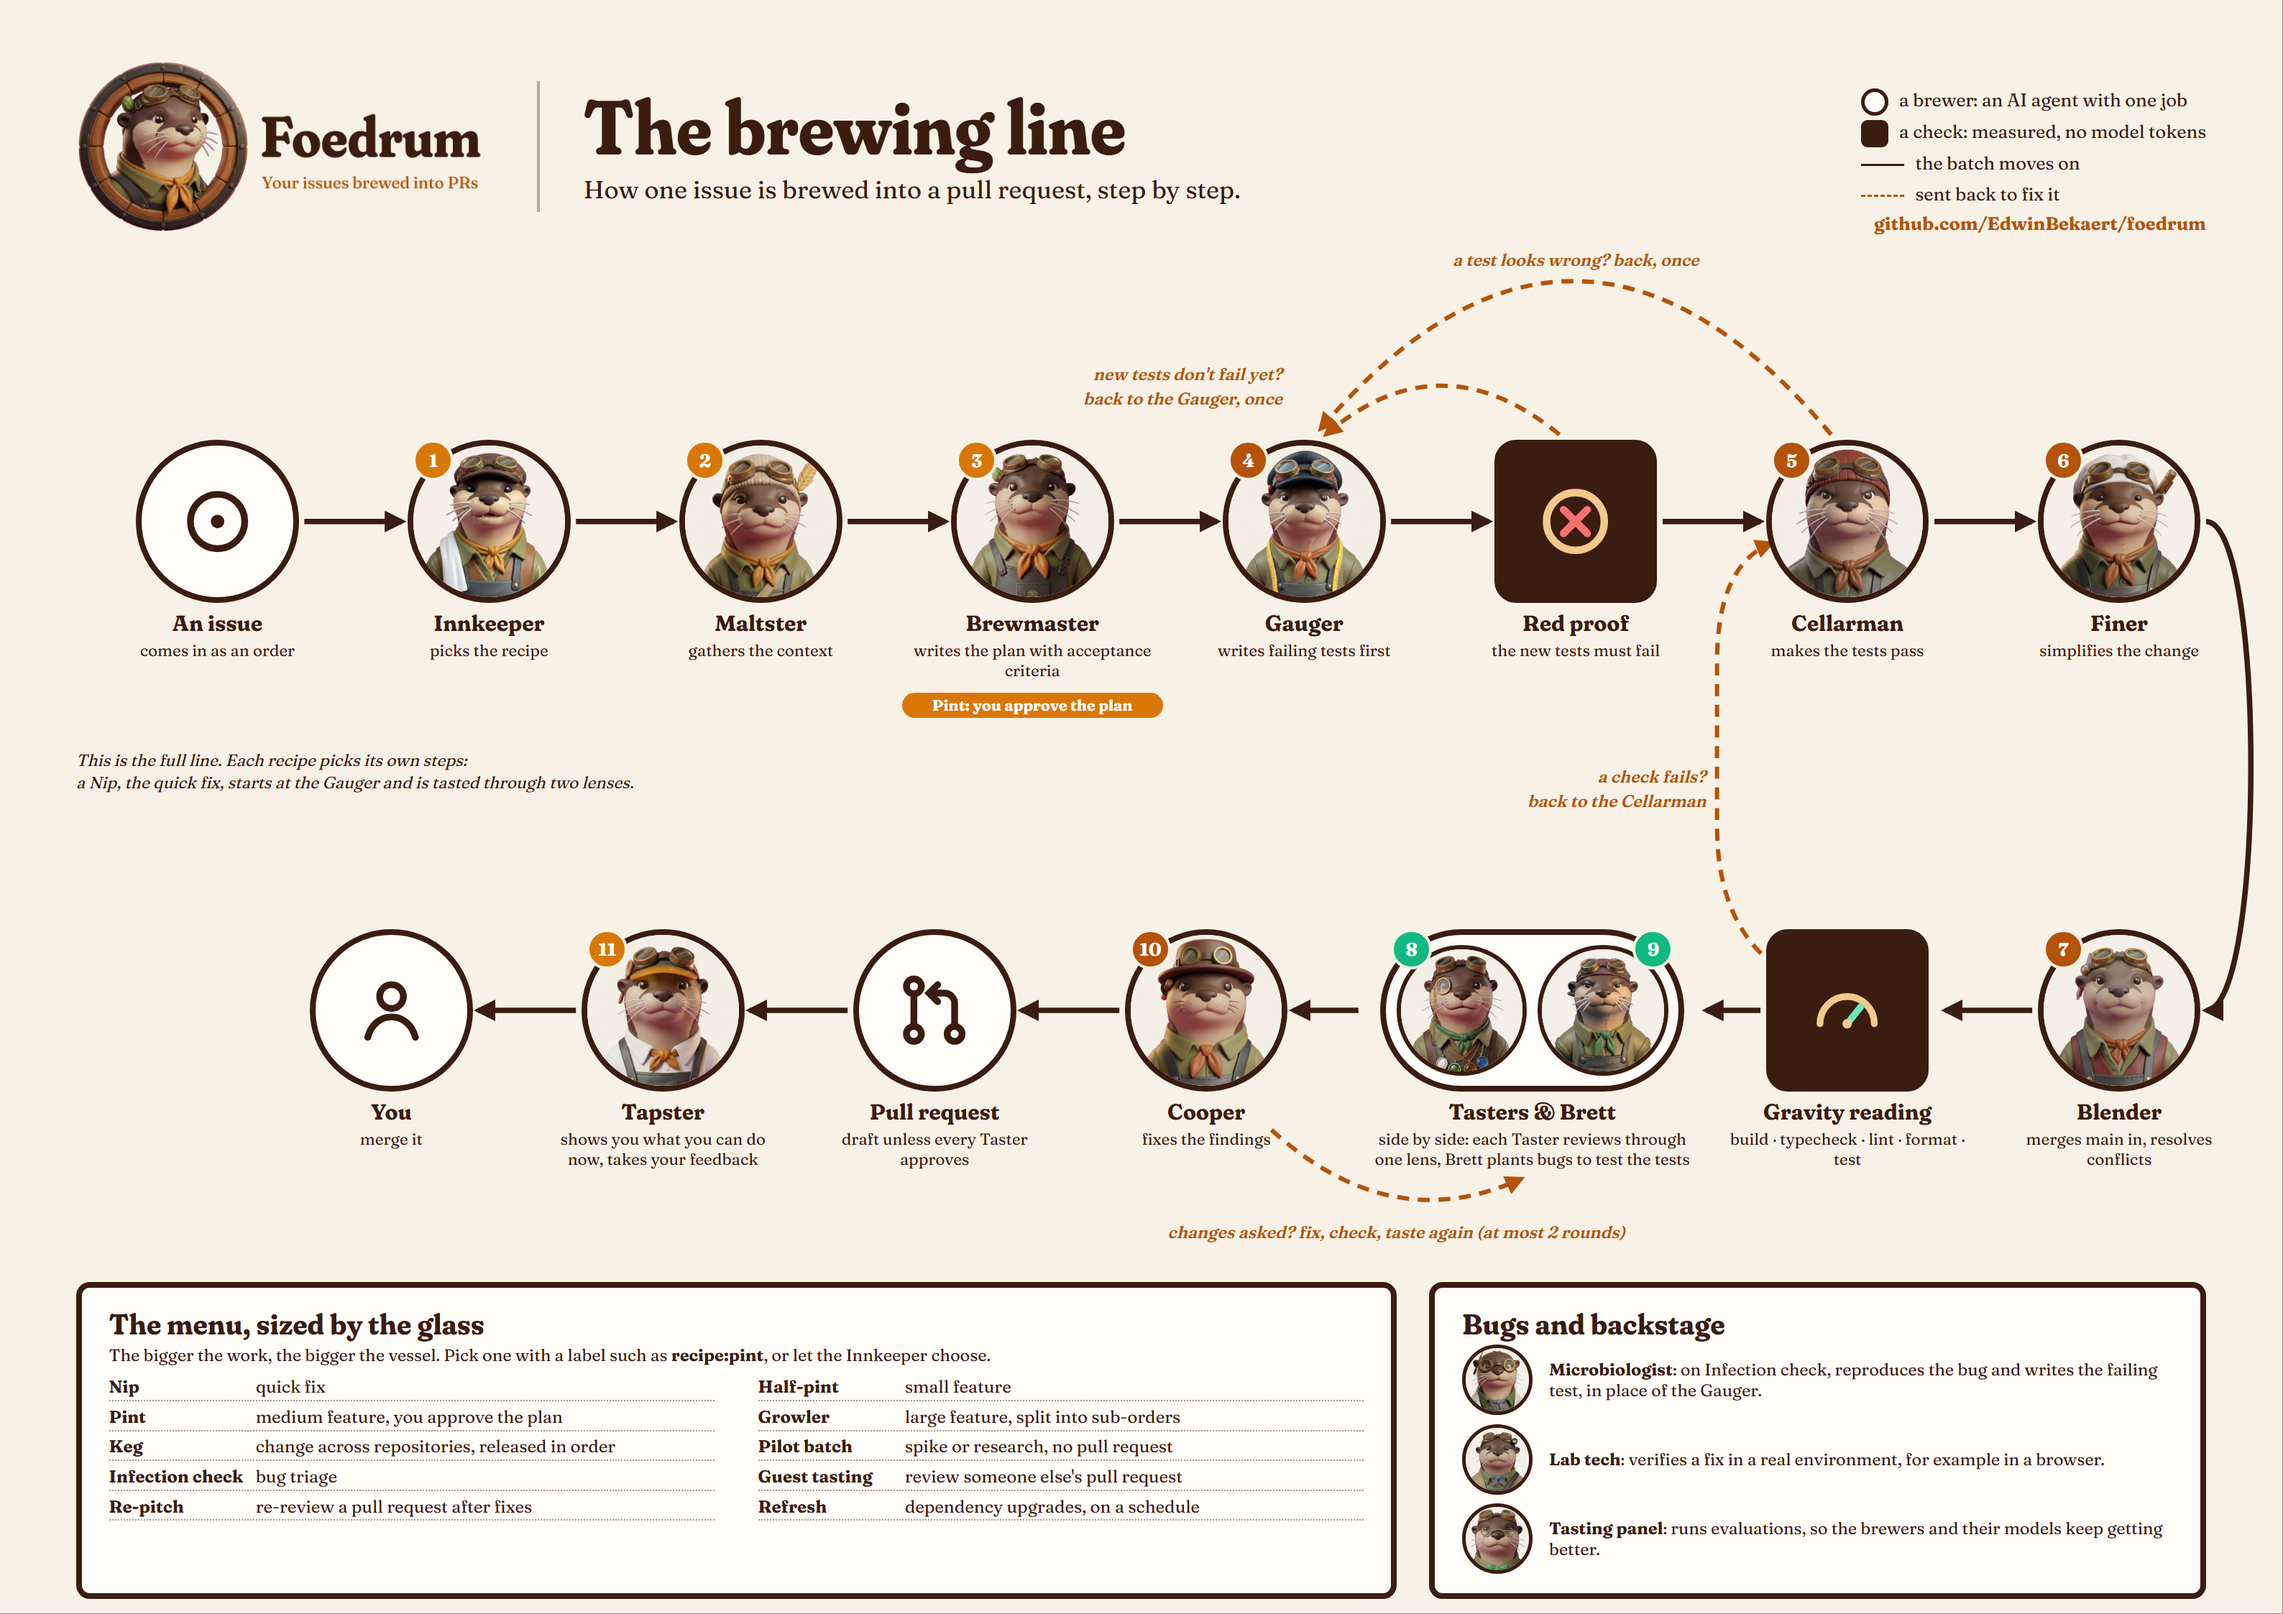
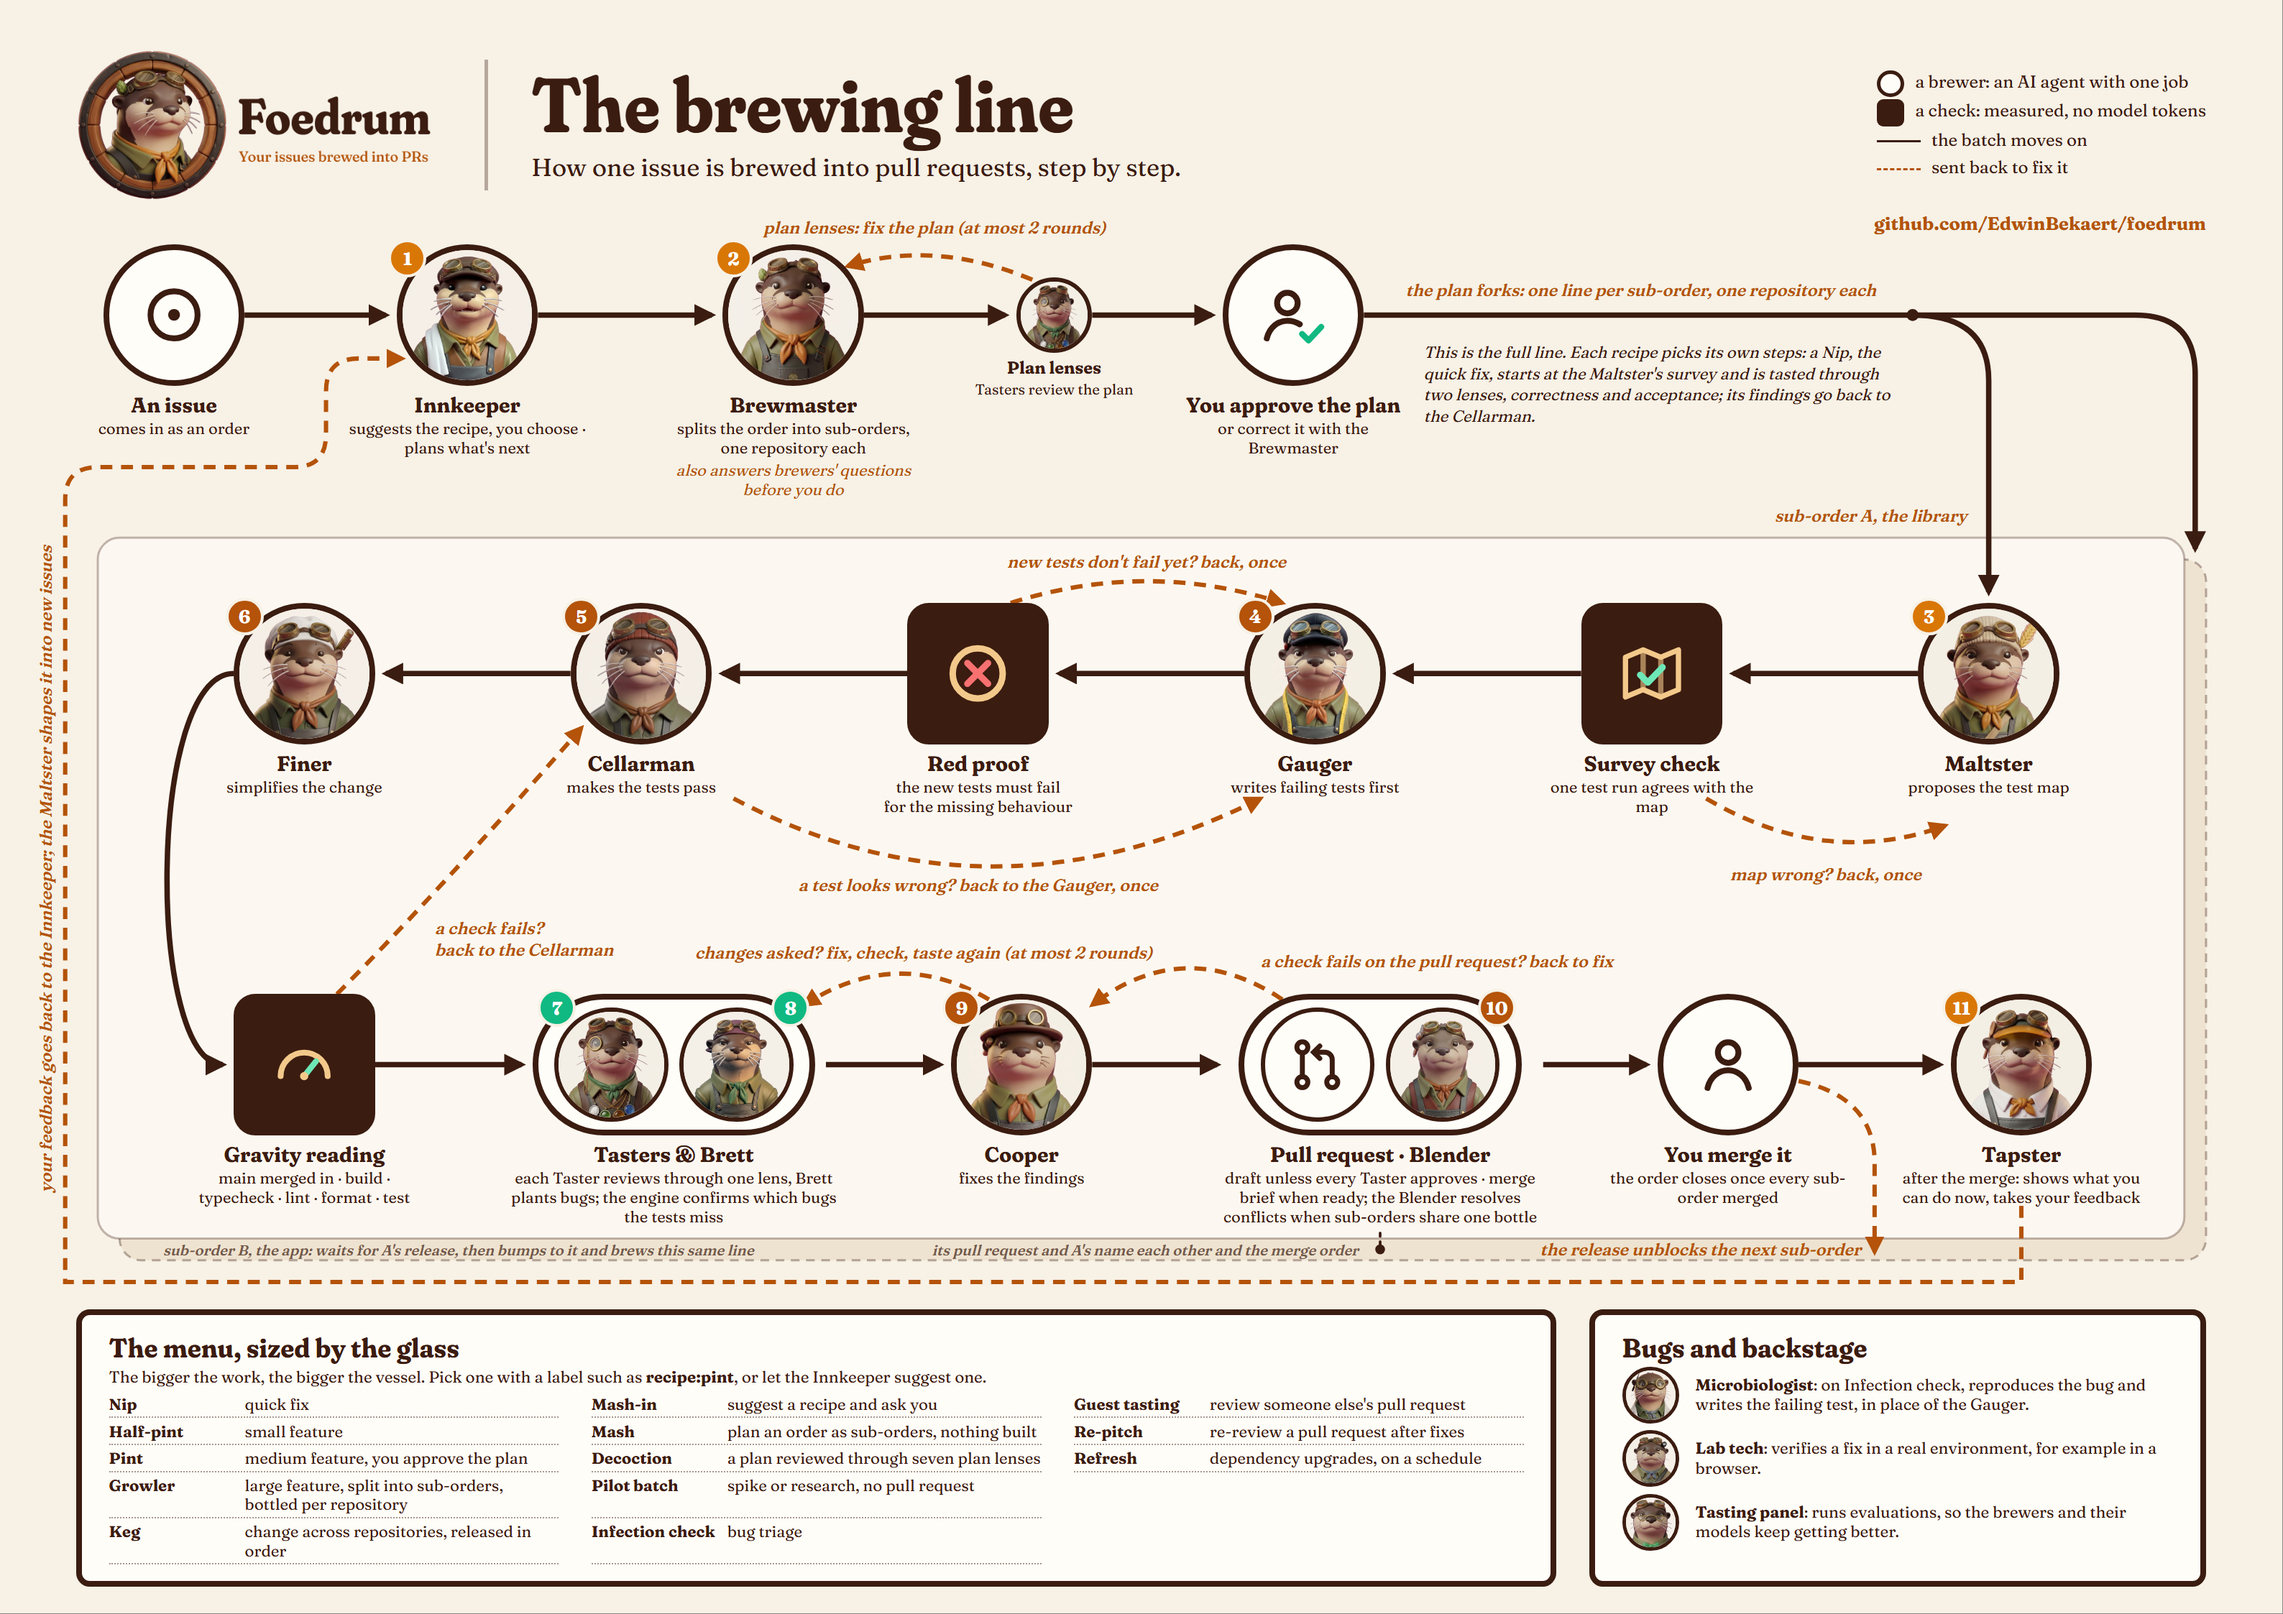
Show the brewing line as decided: the plan, its fork into sub-orders and the release between them

Changed region(s): [[0.0312, 0.5298, 0.9975, 0.9973], [0.0, 0.0312, 0.9663, 0.748], [0.8105, 0.0312, 0.9663, 0.1247]]

diff --git a/README.md b/README.md
@@ -70,9 +70,9 @@ From a terminal outside a Claude Code session, `foedrum brew <issue>` drives und
 
 ## How it fits together
 
-[![The brewing line: how one issue is brewed into a pull request, step by step](docs/images/foedrum-brewing-line.png)](docs/images/foedrum-brewing-line.png)
+[![The brewing line: how one issue is brewed into pull requests, step by step](docs/images/foedrum-brewing-line.png)](docs/images/foedrum-brewing-line.png)
 
-The full line as designed. Each recipe picks its own steps: Nip, the quick fix that works today, starts at the Gauger and is tasted through two lenses.
+The full line as designed. Each recipe picks its own steps: Nip, the quick fix that works today, starts at the Maltster's survey and is tasted through two lenses, correctness and acceptance.
 
 ## Documentation
 
